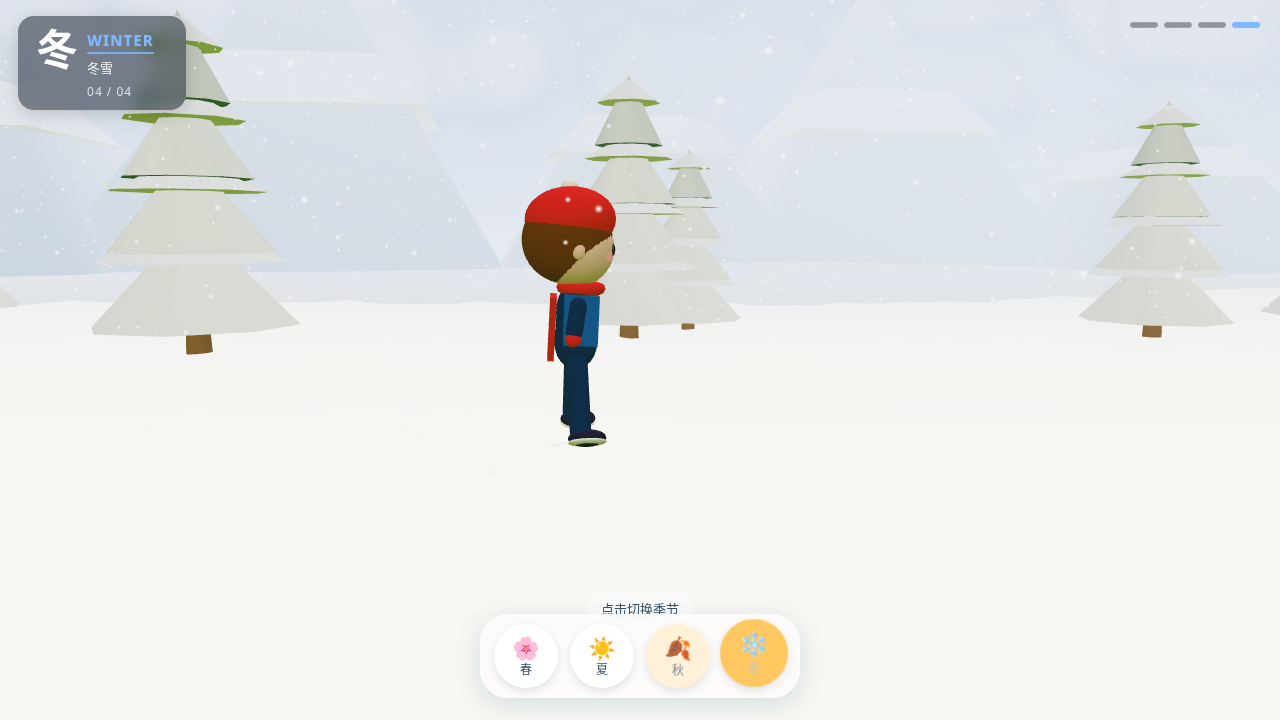
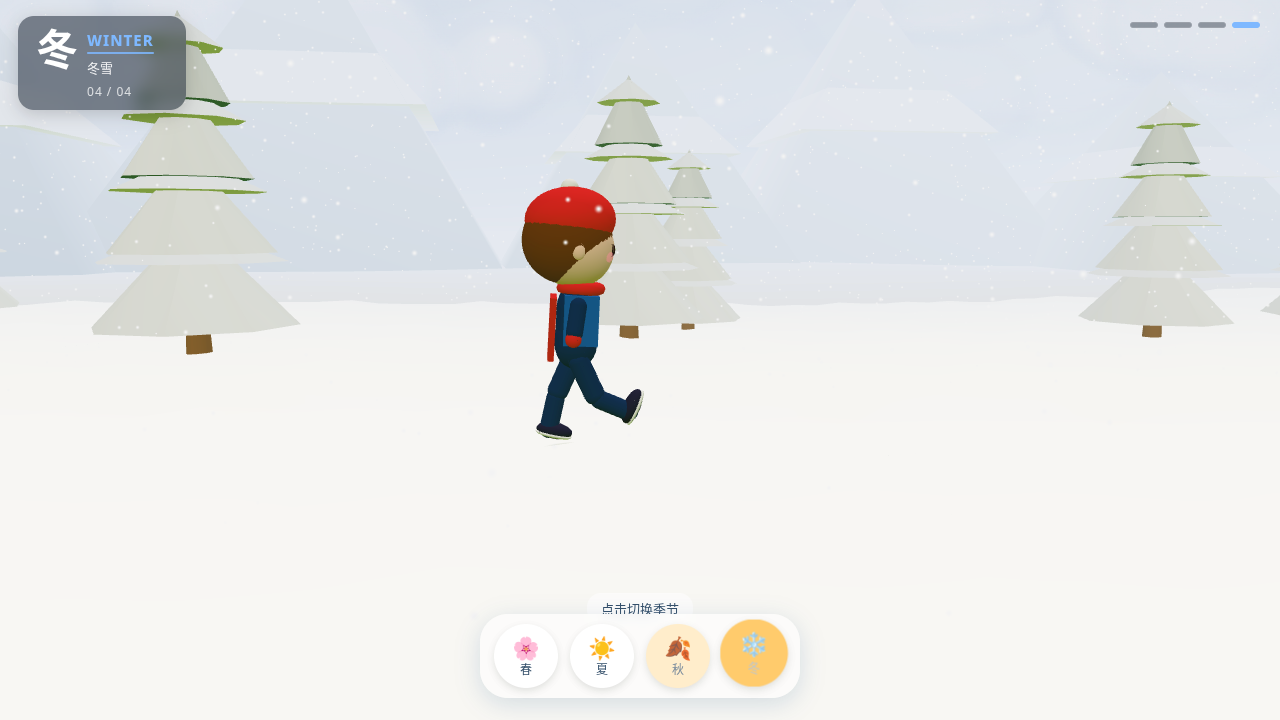
修正走路轴向：前后迈步并恢复膝盖
腿改为沿前进方向摆动，不再左右开合；膝盖向后弯曲。

Changed region(s): [[0.4062, 0.4889, 0.5, 0.6417]]

diff --git a/main.js b/main.js
@@ -473,18 +473,17 @@ function makeKid(o) {
   const legCol = o.legs || JEANS;
   const legs = [];
   // Two-bone lankier chibi legs (~+40% length); hip higher so feet stay on ground
-  const legLen = 0.56, hipY = 0.62;
+  const thighLen = 0.30, shinLen = 0.26, hipY = 0.62;
   for (const sx of [-1, 1]) {
+    const thighCol = o.shorts ? o.shorts : legCol;
+    const shinCol = o.shorts ? SKIN : legCol;
     const piv = new THREE.Group(); piv.position.set(sx * 0.085, hipY, 0);
-    // One long leg — no knee joint to invert
-    const col = o.shorts ? o.shorts : legCol;
-    const leg = cap(0.068, legLen - 0.08, col); leg.position.y = -legLen * 0.45; piv.add(leg);
-    if (o.shorts) {
-      const calf = cap(0.06, legLen * 0.28, SKIN); calf.position.y = -legLen * 0.78; piv.add(calf);
-    }
-    const shoe = sph(0.09, o.shoes); shoe.scale.set(0.9, 0.6, 1.35); shoe.position.set(0, -legLen + 0.02, 0.04); piv.add(shoe);
-    const sole = sph(0.09, 0xffffff); sole.scale.set(0.92, 0.25, 1.37); sole.position.set(0, -legLen - 0.005, 0.04); piv.add(sole);
-    piv.userData = {}; body.add(piv); legs.push(piv);
+    const thigh = cap(0.07, thighLen - 0.06, thighCol); thigh.position.y = -thighLen * 0.5; piv.add(thigh);
+    const shinPiv = new THREE.Group(); shinPiv.position.y = -thighLen; piv.add(shinPiv);
+    const shin = cap(0.062, shinLen - 0.05, shinCol); shin.position.y = -shinLen * 0.5; shinPiv.add(shin);
+    const shoe = sph(0.09, o.shoes); shoe.scale.set(0.9, 0.6, 1.35); shoe.position.set(0, -shinLen + 0.02, 0.04); shinPiv.add(shoe);
+    const sole = sph(0.09, 0xffffff); sole.scale.set(0.92, 0.25, 1.37); sole.position.set(0, -shinLen - 0.005, 0.04); shinPiv.add(sole);
+    piv.userData = { shin: shinPiv }; body.add(piv); legs.push(piv);
   }
   const torso = new THREE.Group(); torso.position.y = 0.68; body.add(torso);
   const tors = cap(0.165, 0.16, o.shirt); tors.scale.set(1, 1, 0.82); tors.position.y = 0.17; torso.add(tors);
@@ -844,29 +843,38 @@ function update(dt) {
   hero.userData.heading = Math.PI / 2;
   hero.rotation.y = hero.userData.heading;
   hero.userData.blob.position.set(hero.position.x, hgt(hero.position.x, hero.position.z) + 0.03, hero.position.z + 0.05);
-  // Elegant large strides — single-bone legs, swing in profile (Z)
+  // Walk along +X: swing on LOCAL X (= world Z after Ry90) — forward/back, not open-close
   hero.userData.walkPh += dt * 4.0;
   const ph = hero.userData.walkPh;
   const wc = Math.sin(ph);
   const armW = Math.sin(ph - 0.4);
   const u = hero.userData;
-  const stride = 0.68;
+  const stride = 0.65;
   u.legs.forEach((l, i) => {
     const phase = ph + (i === 0 ? Math.PI : 0);
-    l.rotation.set(0, 0, Math.sin(phase) * stride);
+    // Local X swing = screen-plane stride when character faces +X
+    const thigh = Math.sin(phase) * stride;
+    l.rotation.set(thigh, 0, 0);
+    // Knee folds foot toward butt (negative local X)
+    const flex = Math.max(0, -Math.cos(phase));
+    if (l.userData.shin) l.userData.shin.rotation.set(-0.2 - flex * 0.7, 0, 0);
   });
   const bob = Math.sin(ph * 2);
-  u.body.position.y = bob * bob * 0.03;
+  u.body.position.y = bob * bob * 0.028;
   u.torso.scale.y = 1 + Math.sin(simTime * 1.0 + u.ph) * 0.006;
   u.torso.rotation.x = 0.05;
-  u.torso.rotation.y = -wc * 0.045;
+  u.torso.rotation.y = -wc * 0.04;
   u.head.rotation.x = -0.02;
   u.head.rotation.z = Math.sin(simTime * 0.45 + u.ph) * 0.018;
   u.head.position.set(0, 1.32, 0);
   u.arms.forEach((a, i) => {
     const sx = a.userData.sx;
     if (u.umb && i === 1) { a.rotation.z = 2.55; a.rotation.x = -0.1; }
-    else { a.rotation.z = sx * 0.22; a.rotation.x = (i ? -1 : 1) * armW * 0.42; }
+    else {
+      // Arm swing also on local X for forward/back
+      a.rotation.z = sx * 0.22;
+      a.rotation.x = (i ? -1 : 1) * armW * 0.4;
+    }
   });
   if (u.umb) { u.umb.g.visible = true; u.umb.g.position.set(0.12, 1.28 + u.body.position.y, 0); u.umb.can.scale.set(1, 1, 1); }
 

diff --git a/index.html b/index.html
@@ -56,6 +56,6 @@ document.querySelectorAll('#ui button').forEach(function(b){ b.addEventListener(
   if (window.setWeather) window.setWeather(b.dataset.w); else window.__pendingWeather = b.dataset.w; }); });
 window.addEventListener('error', function(e){ var d=document.getElementById('err'); d.style.display='block'; d.textContent='3D 场景加载出错：' + (e.message||e); });
 </script>
-<script type="module" src="./main.js?v=1792762500"></script>
+<script type="module" src="./main.js?v=1792764800"></script>
 </body>
 </html>
